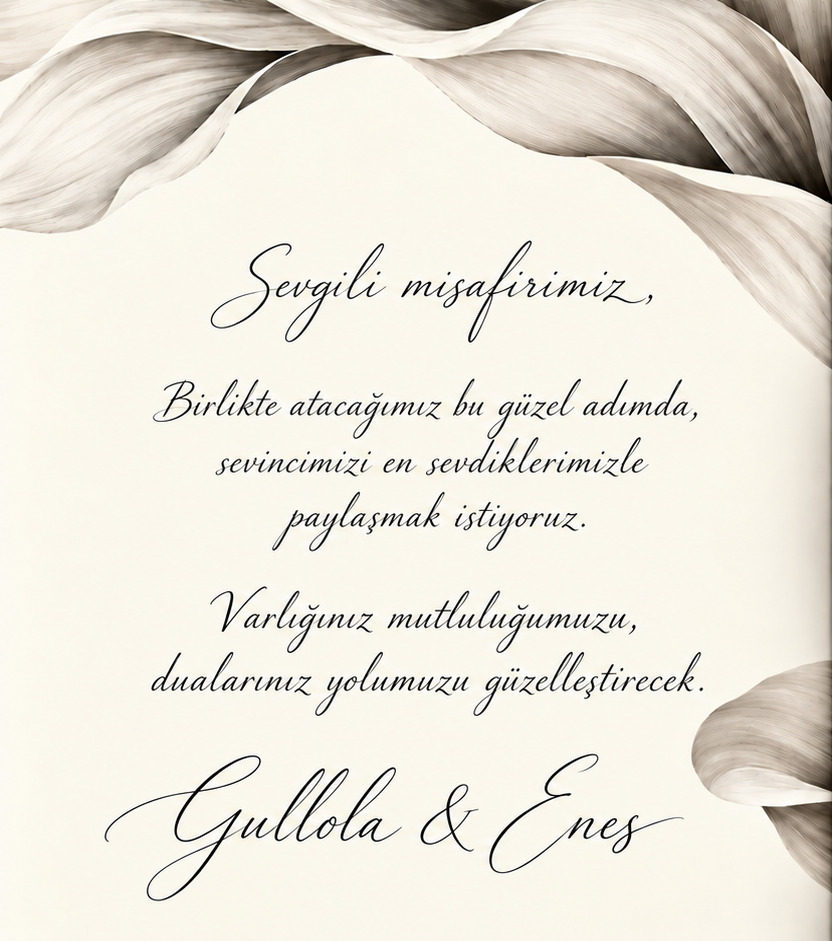
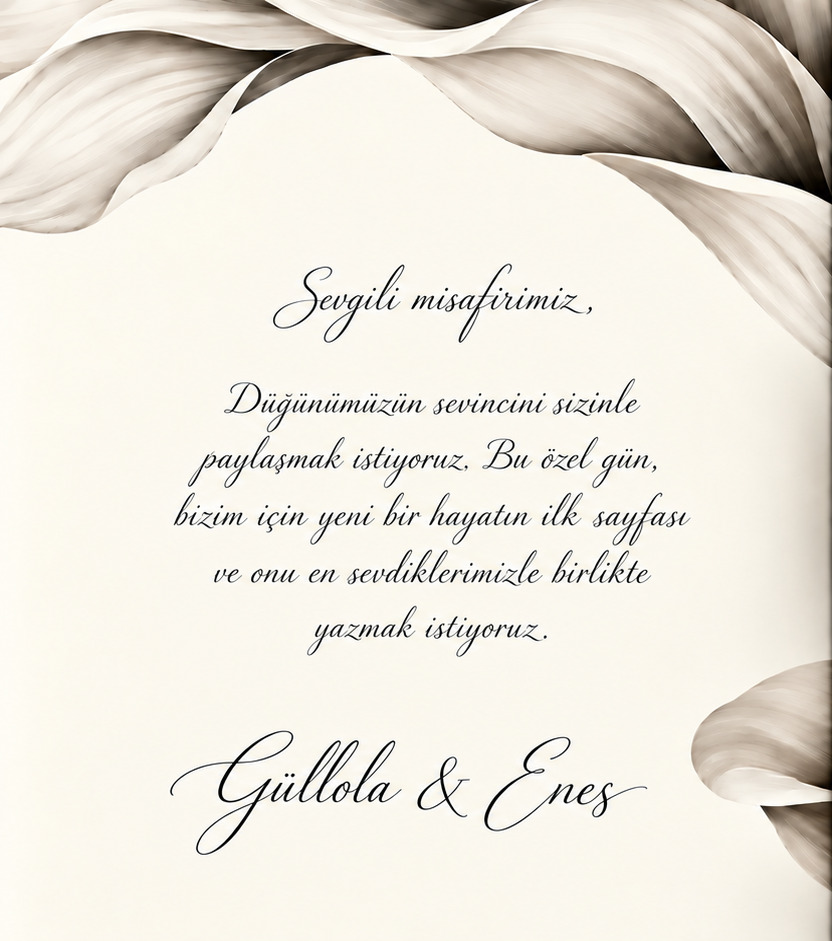
İç sayfalar son hâliyle

diff --git a/index.html b/index.html
@@ -336,7 +336,7 @@ body{
           </div>
           <div class="leaf">
             <div class="pg leaf-front" id="pg1"><img alt="Kapak: siyah beyaz kala çiçekleri üzerinde G&amp;E monogramı." src="images/sayfa-1-kapak.jpg"></div>
-            <div class="pg leaf-back" id="pg2"><img alt="Sevgili misafirimiz, birlikte atacağımız bu güzel adımda sevincimizi en sevdiklerimizle paylaşmak istiyoruz. Varlığınız mutluluğumuzu, dualarınız yolumuzu güzelleştirecek. Gullola &amp; Enes" src="images/sayfa-2.jpg"></div>
+            <div class="pg leaf-back" id="pg2"><img alt="Sevgili misafirimiz, düğünümüzün sevincini sizinle paylaşmak istiyoruz. Bu özel gün, bizim için yeni bir hayatın ilk sayfası ve onu en sevdiklerimizle birlikte yazmak istiyoruz. Güllola &amp; Enes" src="images/sayfa-2.jpg"></div>
           </div>
         </div>
       </div>
